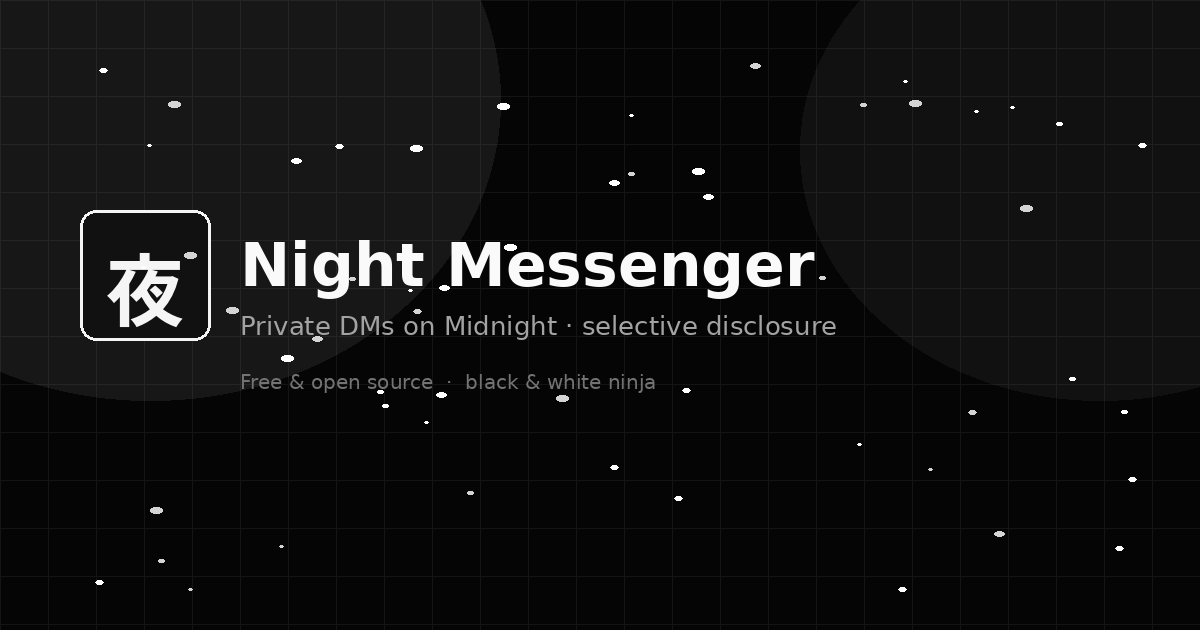
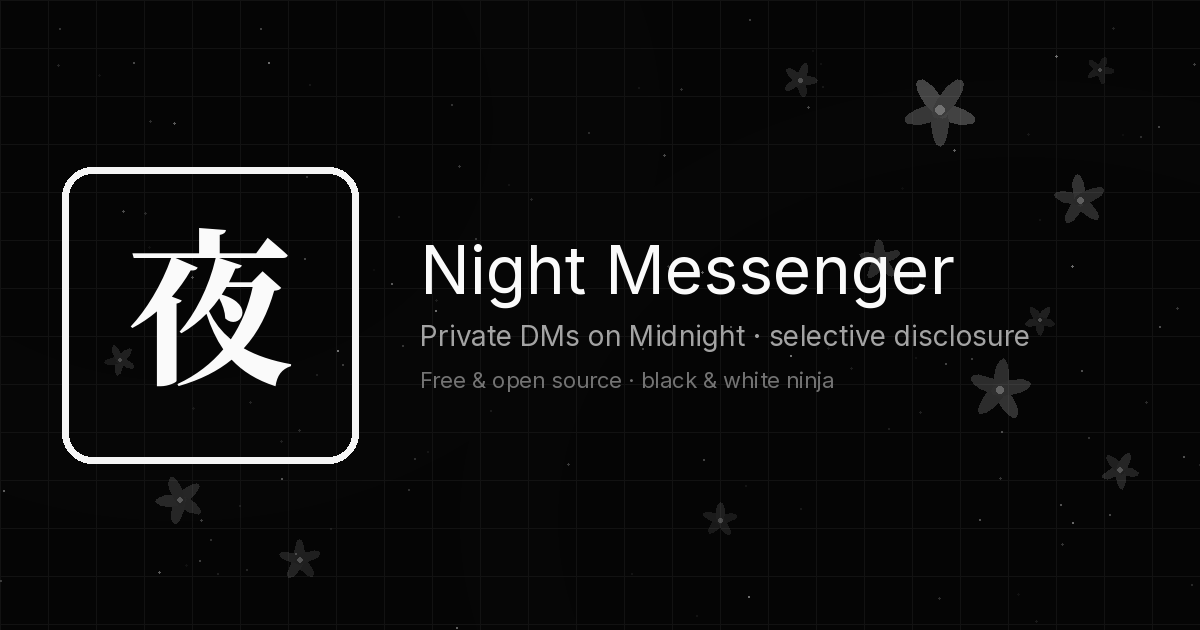
Deploy web to GitHub Pages with OG share card
Static-export Next.js for Pages under /Night-Messenger-, absolute
OG/Twitter meta, and a 1200x630 sakura share image.

diff --git a/apps/web/src/app/layout.tsx b/apps/web/src/app/layout.tsx
@@ -5,10 +5,17 @@ import "./globals.css";
 const geistSans = Geist({ variable: "--font-geist-sans", subsets: ["latin"] });
 const geistMono = Geist_Mono({ variable: "--font-geist-mono", subsets: ["latin"] });
 
-const siteUrl = process.env.NEXT_PUBLIC_SITE_URL ?? "https://night-messenger.app";
+/** Live GitHub Pages URL (repo name includes trailing hyphen). */
+const siteUrl = (process.env.NEXT_PUBLIC_SITE_URL ?? "https://kshot3000.github.io/Night-Messenger-").replace(
+  /\/$/,
+  "",
+);
+const siteUrlSlash = `${siteUrl}/`;
+const ogImage = `${siteUrl}/og.png`;
+const icon = (path: string) => `${siteUrl}${path.startsWith("/") ? path : `/${path}`}`;
 
 export const metadata: Metadata = {
-  metadataBase: new URL(siteUrl),
+  metadataBase: new URL(siteUrlSlash),
   title: {
     default: "Night Messenger — Private DMs on Midnight",
     template: "%s · Night Messenger",
@@ -21,22 +28,32 @@ export const metadata: Metadata = {
   openGraph: {
     type: "website",
     locale: "en_US",
-    url: siteUrl,
+    url: siteUrlSlash,
     siteName: "Night Messenger",
     title: "Night Messenger — Private DMs on Midnight",
     description:
       "1:1 DMs where plaintext stays encrypted, existence can be proven on-chain, and you choose what to disclose. Free & open source.",
-    images: [{ url: "/og.png", width: 1200, height: 630, alt: "Night Messenger" }],
+    images: [
+      {
+        url: ogImage,
+        width: 1200,
+        height: 630,
+        alt: "Night Messenger — black & white ninja + sakura",
+      },
+    ],
   },
   twitter: {
     card: "summary_large_image",
     title: "Night Messenger",
     description: "Private messaging on Midnight with selective disclosure. Free & open source.",
-    images: ["/og.png"],
+    images: [ogImage],
   },
   icons: {
-    icon: [{ url: "/favicon.ico" }, { url: "/icon.svg", type: "image/svg+xml" }],
-    apple: [{ url: "/apple-touch-icon.png" }],
+    icon: [
+      { url: icon("/favicon.ico") },
+      { url: icon("/icon.svg"), type: "image/svg+xml" },
+    ],
+    apple: [{ url: icon("/apple-touch-icon.png") }],
   },
 };
 

diff --git a/apps/web/next.config.ts b/apps/web/next.config.ts
@@ -1,11 +1,20 @@
 import type { NextConfig } from "next";
-import path from "path";
+
+const repoBase = "/Night-Messenger-";
+const isPages = process.env.GITHUB_PAGES === "true";
 
 const nextConfig: NextConfig = {
+  output: "export",
+  // Trailing slash helps GitHub Pages serve nested routes as .../index.html
+  trailingSlash: true,
+  images: { unoptimized: true },
   transpilePackages: ["@midnight-messenger/shared"],
-  experimental: {
-    // allow importing TS from workspace package
-  },
+  ...(isPages
+    ? {
+        basePath: repoBase,
+        assetPrefix: repoBase,
+      }
+    : {}),
 };
 
 export default nextConfig;

diff --git a/README.md b/README.md
@@ -8,6 +8,8 @@ Free & open source. 1:1 DMs where plaintext stays encrypted, existence can be pr
 
 Repo: [github.com/Kshot3000/Night-Messenger-](https://github.com/Kshot3000/Night-Messenger-)
 
+**Live demo:** [kshot3000.github.io/Night-Messenger-](https://kshot3000.github.io/Night-Messenger-/)
+
 ![Night Messenger](apps/web/public/og.png)
 
 ### Screenshots
